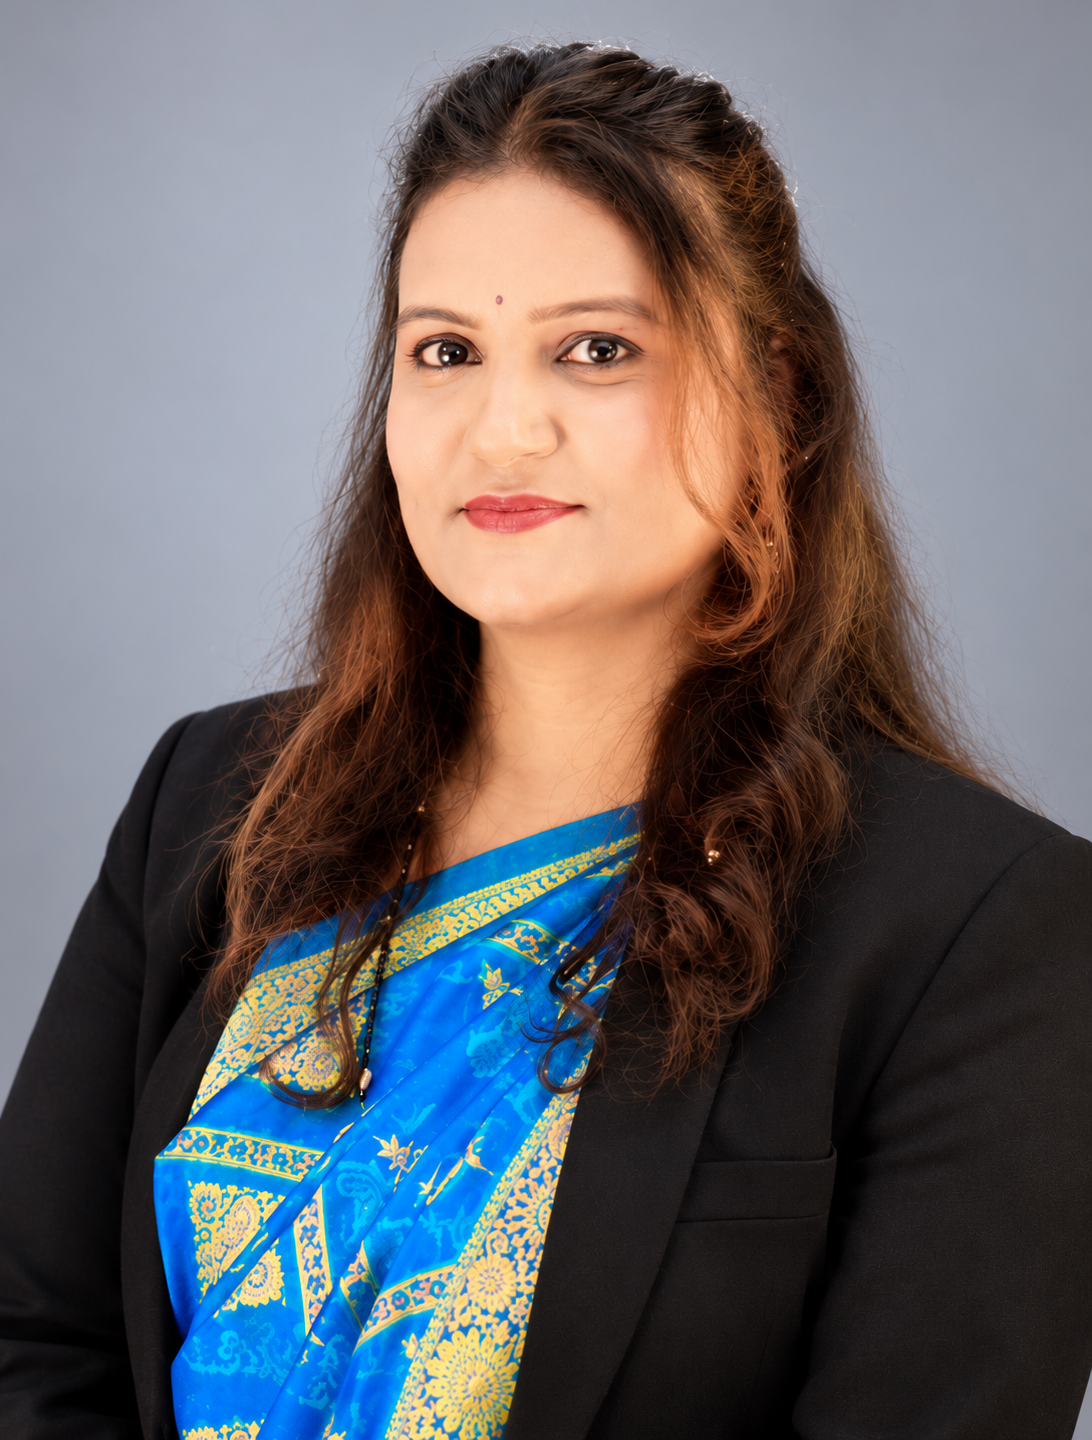
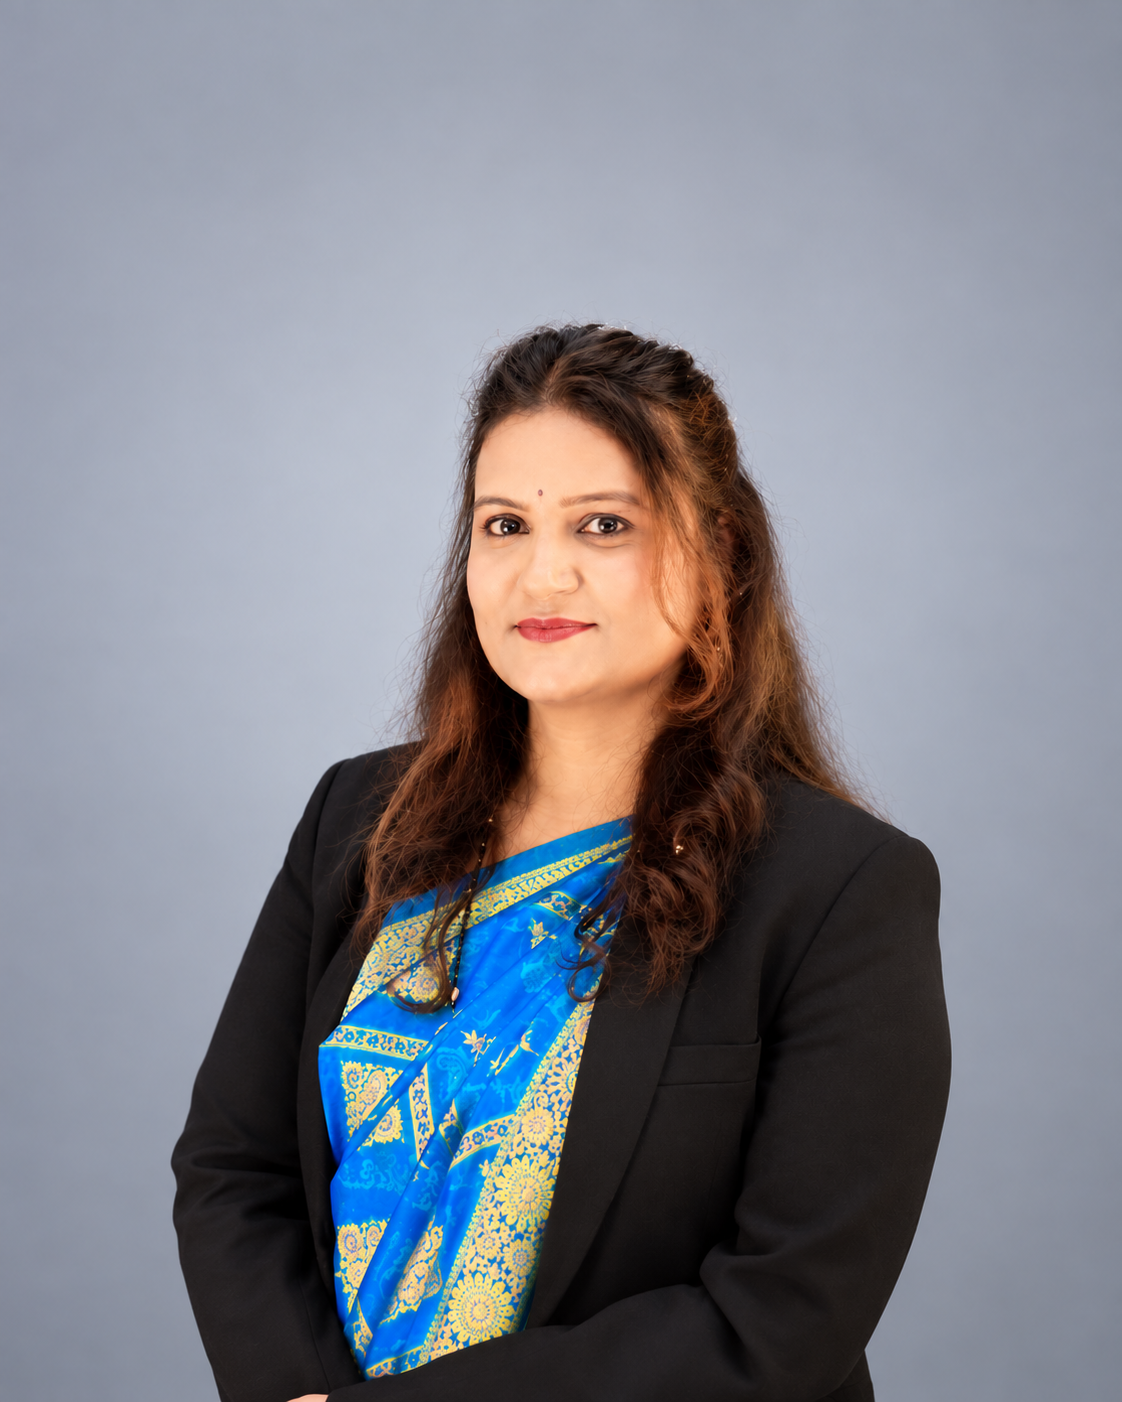
Result section updated

diff --git a/src/App.css b/src/App.css
@@ -38660,3 +38660,269 @@ body {
     height: 360px;
   }
 }
+
+/* =====================================================
+   RESULTS SECTION
+===================================================== */
+
+.results-section {
+  padding: 90px 0;
+  background:
+    radial-gradient(
+      circle at 85% 20%,
+      rgba(227, 27, 35, 0.08),
+      transparent 35%
+    ),
+    var(--background);
+}
+
+
+/* =====================================================
+   HEADER
+===================================================== */
+
+.results-header {
+  display: flex;
+  align-items: flex-end;
+  justify-content: space-between;
+  gap: 40px;
+  margin-bottom: 42px;
+}
+
+.results-header .section-heading {
+  max-width: 650px;
+}
+
+.results-header .section-heading h2 {
+  margin-bottom: 16px;
+}
+
+.results-header .section-heading p {
+  max-width: 650px;
+  margin: 0;
+  color: var(--text-secondary);
+  font-size: 13px;
+  line-height: 1.8;
+}
+
+
+/* =====================================================
+   HIGHLIGHT
+===================================================== */
+
+.result-highlight {
+  min-width: 230px;
+
+  display: flex;
+  align-items: center;
+  gap: 14px;
+
+  padding: 18px 20px;
+
+  border: 1px solid var(--border);
+  border-radius: 12px;
+
+  background: var(--surface);
+
+  color: var(--accent);
+
+  box-shadow: var(--shadow-sm);
+}
+
+.result-highlight > div {
+  display: flex;
+  flex-direction: column;
+  gap: 3px;
+}
+
+.result-highlight strong {
+  color: var(--text);
+  font-size: 21px;
+  line-height: 1;
+}
+
+.result-highlight span {
+  color: var(--text-secondary);
+  font-size: 10px;
+  line-height: 1.4;
+}
+
+
+/* =====================================================
+   RESULTS GRID
+===================================================== */
+
+.results-grid {
+  display: grid;
+  grid-template-columns: repeat(4, minmax(0, 1fr));
+  gap: 15px;
+}
+
+
+/* =====================================================
+   RESULT CARD
+===================================================== */
+
+.result-card {
+  min-width: 0;
+
+  display: flex;
+  align-items: center;
+  gap: 14px;
+
+  padding: 15px;
+
+  border: 1px solid var(--border);
+  border-radius: 12px;
+
+  background: var(--surface);
+
+  transition:
+    transform 0.25s ease,
+    border-color 0.25s ease,
+    box-shadow 0.25s ease;
+}
+
+.result-card:hover {
+  transform: translateY(-3px);
+  border-color: var(--accent);
+  box-shadow: var(--shadow-sm);
+}
+
+
+/* =====================================================
+   RESULT ICON
+===================================================== */
+
+.result-photo {
+  flex: 0 0 62px;
+  width: 62px;
+  height: 62px;
+
+  display: flex;
+  align-items: center;
+  justify-content: center;
+
+  border-radius: 10px;
+
+  background: var(--accent);
+  color: #ffffff;
+}
+
+.result-photo svg {
+  stroke-width: 1.8;
+}
+
+
+/* =====================================================
+   RESULT INFORMATION
+===================================================== */
+
+.result-info {
+  min-width: 0;
+}
+
+.result-info > span {
+  display: block;
+  margin-bottom: 7px;
+
+  color: var(--text-secondary);
+
+  font-size: 8px;
+  font-weight: 700;
+  letter-spacing: 0.8px;
+  line-height: 1.3;
+}
+
+.result-info h3 {
+  margin: 0 0 5px;
+
+  color: var(--text);
+
+  font-size: 13px;
+  font-weight: 700;
+  line-height: 1.3;
+}
+
+.result-info strong {
+  display: block;
+
+  color: var(--accent);
+
+  font-size: 10px;
+  font-weight: 700;
+  line-height: 1.3;
+}
+
+
+/* =====================================================
+   CTA
+===================================================== */
+
+.results-section .text-link {
+  display: inline-flex;
+  align-items: center;
+  gap: 7px;
+
+  margin-top: 28px;
+
+  color: var(--accent);
+
+  font-size: 12px;
+  font-weight: 700;
+
+  transition:
+    color 0.2s ease,
+    transform 0.2s ease;
+}
+
+.results-section .text-link:hover {
+  color: var(--text);
+  transform: translateX(3px);
+}
+
+
+/* =====================================================
+   TABLET
+===================================================== */
+
+@media (max-width: 1100px) {
+
+  .results-grid {
+    grid-template-columns: repeat(2, minmax(0, 1fr));
+  }
+
+}
+
+
+/* =====================================================
+   SMALLER DESKTOP / TABLET
+===================================================== */
+
+@media (max-width: 850px) {
+
+  .results-header {
+    align-items: flex-start;
+    flex-direction: column;
+    gap: 25px;
+  }
+
+  .result-highlight {
+    min-width: 210px;
+  }
+
+}
+
+
+/* =====================================================
+   MOBILE
+   Results section intentionally hidden
+===================================================== */
+
+@media (max-width: 768px) {
+
+  .results-section {
+    display: none !important;
+  }
+
+}

diff --git a/src/components/Results.jsx b/src/components/Results.jsx
@@ -13,10 +13,15 @@ function Results() {
             </span>
 
             <h2>
-              Hard work that
+              Results built through
               <br />
-              <span>gets results.</span>
+              <span>focused preparation.</span>
             </h2>
+
+            <p>
+              Consistent guidance, experienced faculty and exam-focused
+              preparation designed to help aspirants perform with confidence.
+            </p>
           </div>
 
           <div className="result-highlight">
@@ -24,13 +29,61 @@ function Results() {
 
             <div>
               <strong>100+</strong>
-              <span>Selections across competitive exams</span>
+              <span>Selections and counting</span>
             </div>
           </div>
 
         </div>
 
+
         <div className="results-grid">
+
+          {/* SSC & BANKING */}
+
+          <div className="result-card">
+            <div className="result-photo">
+              <Trophy size={28} />
+            </div>
+
+            <div className="result-info">
+              <span>SSC & BANKING</span>
+              <h3>SSC • Banking</h3>
+              <strong>Structured preparation</strong>
+            </div>
+          </div>
+
+
+          {/* TEACHER EXAMS */}
+
+          <div className="result-card">
+            <div className="result-photo">
+              <Trophy size={28} />
+            </div>
+
+            <div className="result-info">
+              <span>TEACHER EXAMS</span>
+              <h3>TRE • TET</h3>
+              <strong>Focused exam preparation</strong>
+            </div>
+          </div>
+
+
+          {/* BPSC */}
+
+          <div className="result-card">
+            <div className="result-photo">
+              <Trophy size={28} />
+            </div>
+
+            <div className="result-info">
+              <span>STATE COMPETITIVE EXAMS</span>
+              <h3>BPSC & OTHERS</h3>
+              <strong>Exam-oriented guidance</strong>
+            </div>
+          </div>
+
+
+          {/* GENERAL COMPETITIVE EXAMS */}
 
           <div className="result-card">
             <div className="result-photo">
@@ -44,43 +97,8 @@ function Results() {
             </div>
           </div>
 
-          <div className="result-card">
-            <div className="result-photo">
-              <Trophy size={28} />
-            </div>
-
-            <div className="result-info">
-              <span>EXAM PREPARATION</span>
-              <h3>SSC • BANKING</h3>
-              <strong>Successful preparation</strong>
-            </div>
-          </div>
-
-          <div className="result-card">
-            <div className="result-photo">
-              <Trophy size={28} />
-            </div>
-
-            <div className="result-info">
-              <span>TEACHER EXAMS</span>
-              <h3>TRE • TET</h3>
-              <strong>Focused preparation</strong>
-            </div>
-          </div>
-
-          <div className="result-card">
-            <div className="result-photo">
-              <Trophy size={28} />
-            </div>
-
-            <div className="result-info">
-              <span>COMPETITIVE EXAMS</span>
-              <h3>BPSC & OTHERS</h3>
-              <strong>Exam-oriented guidance</strong>
-            </div>
-          </div>
-
         </div>
+
 
         <a href="#enquiry" className="text-link">
           Enquire about our courses
